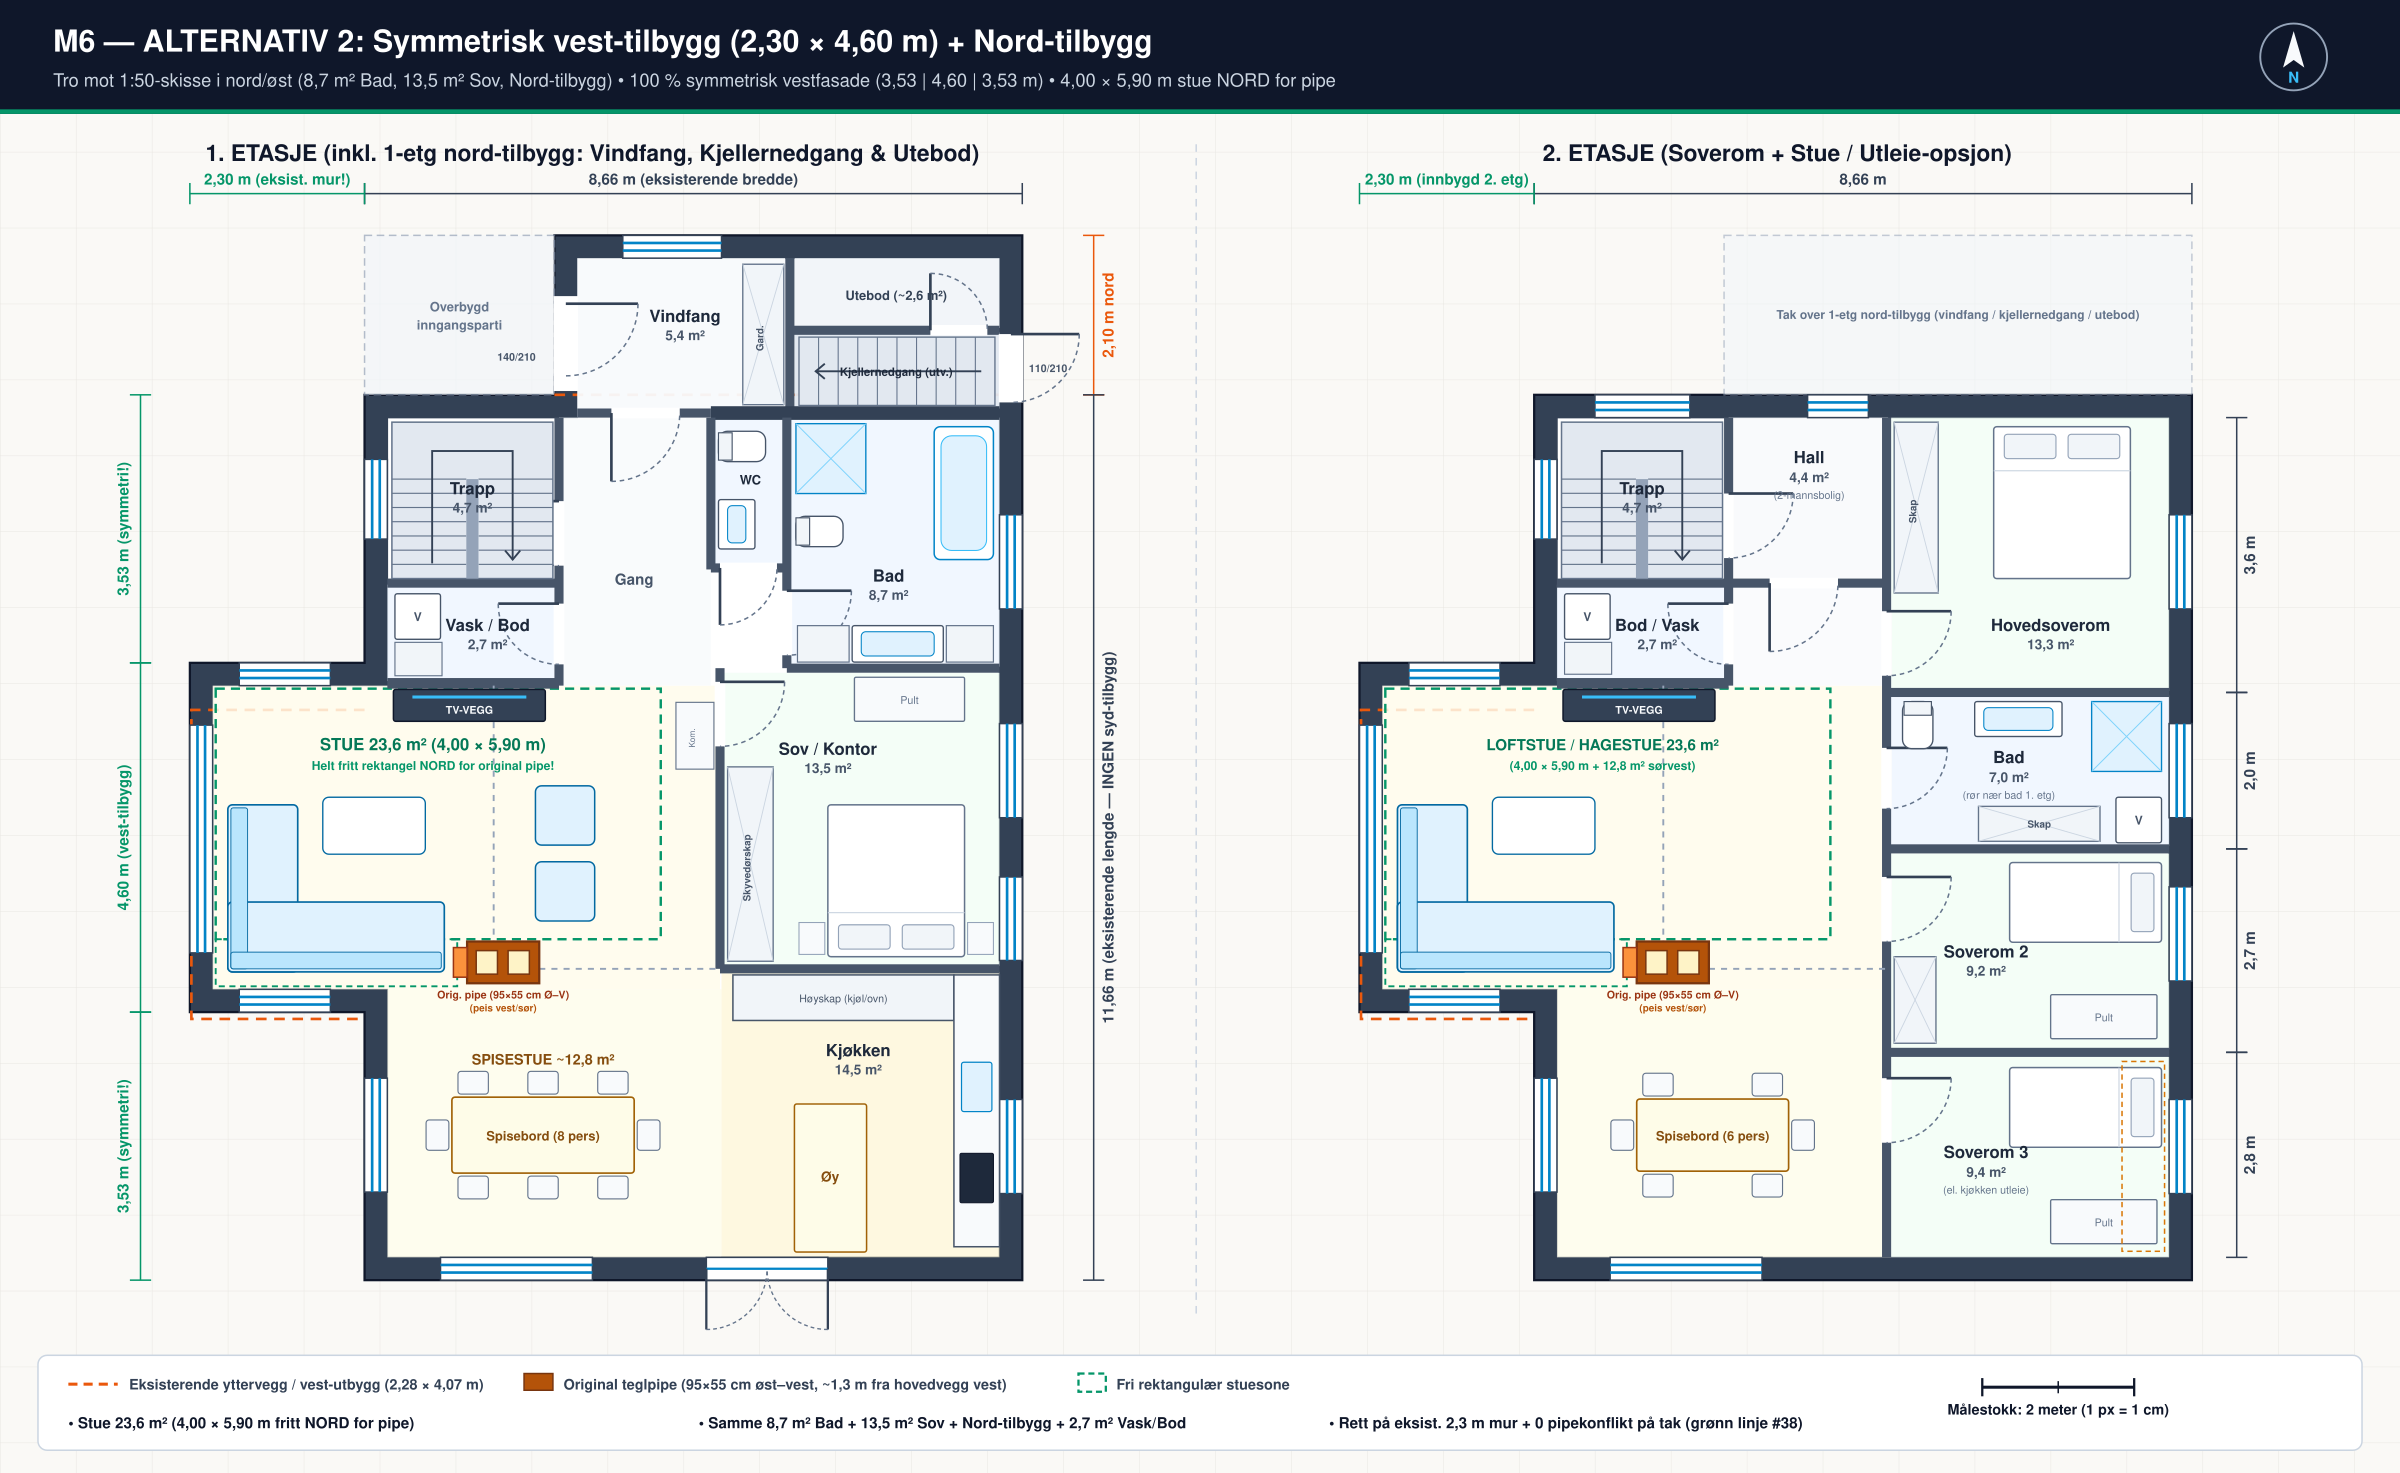
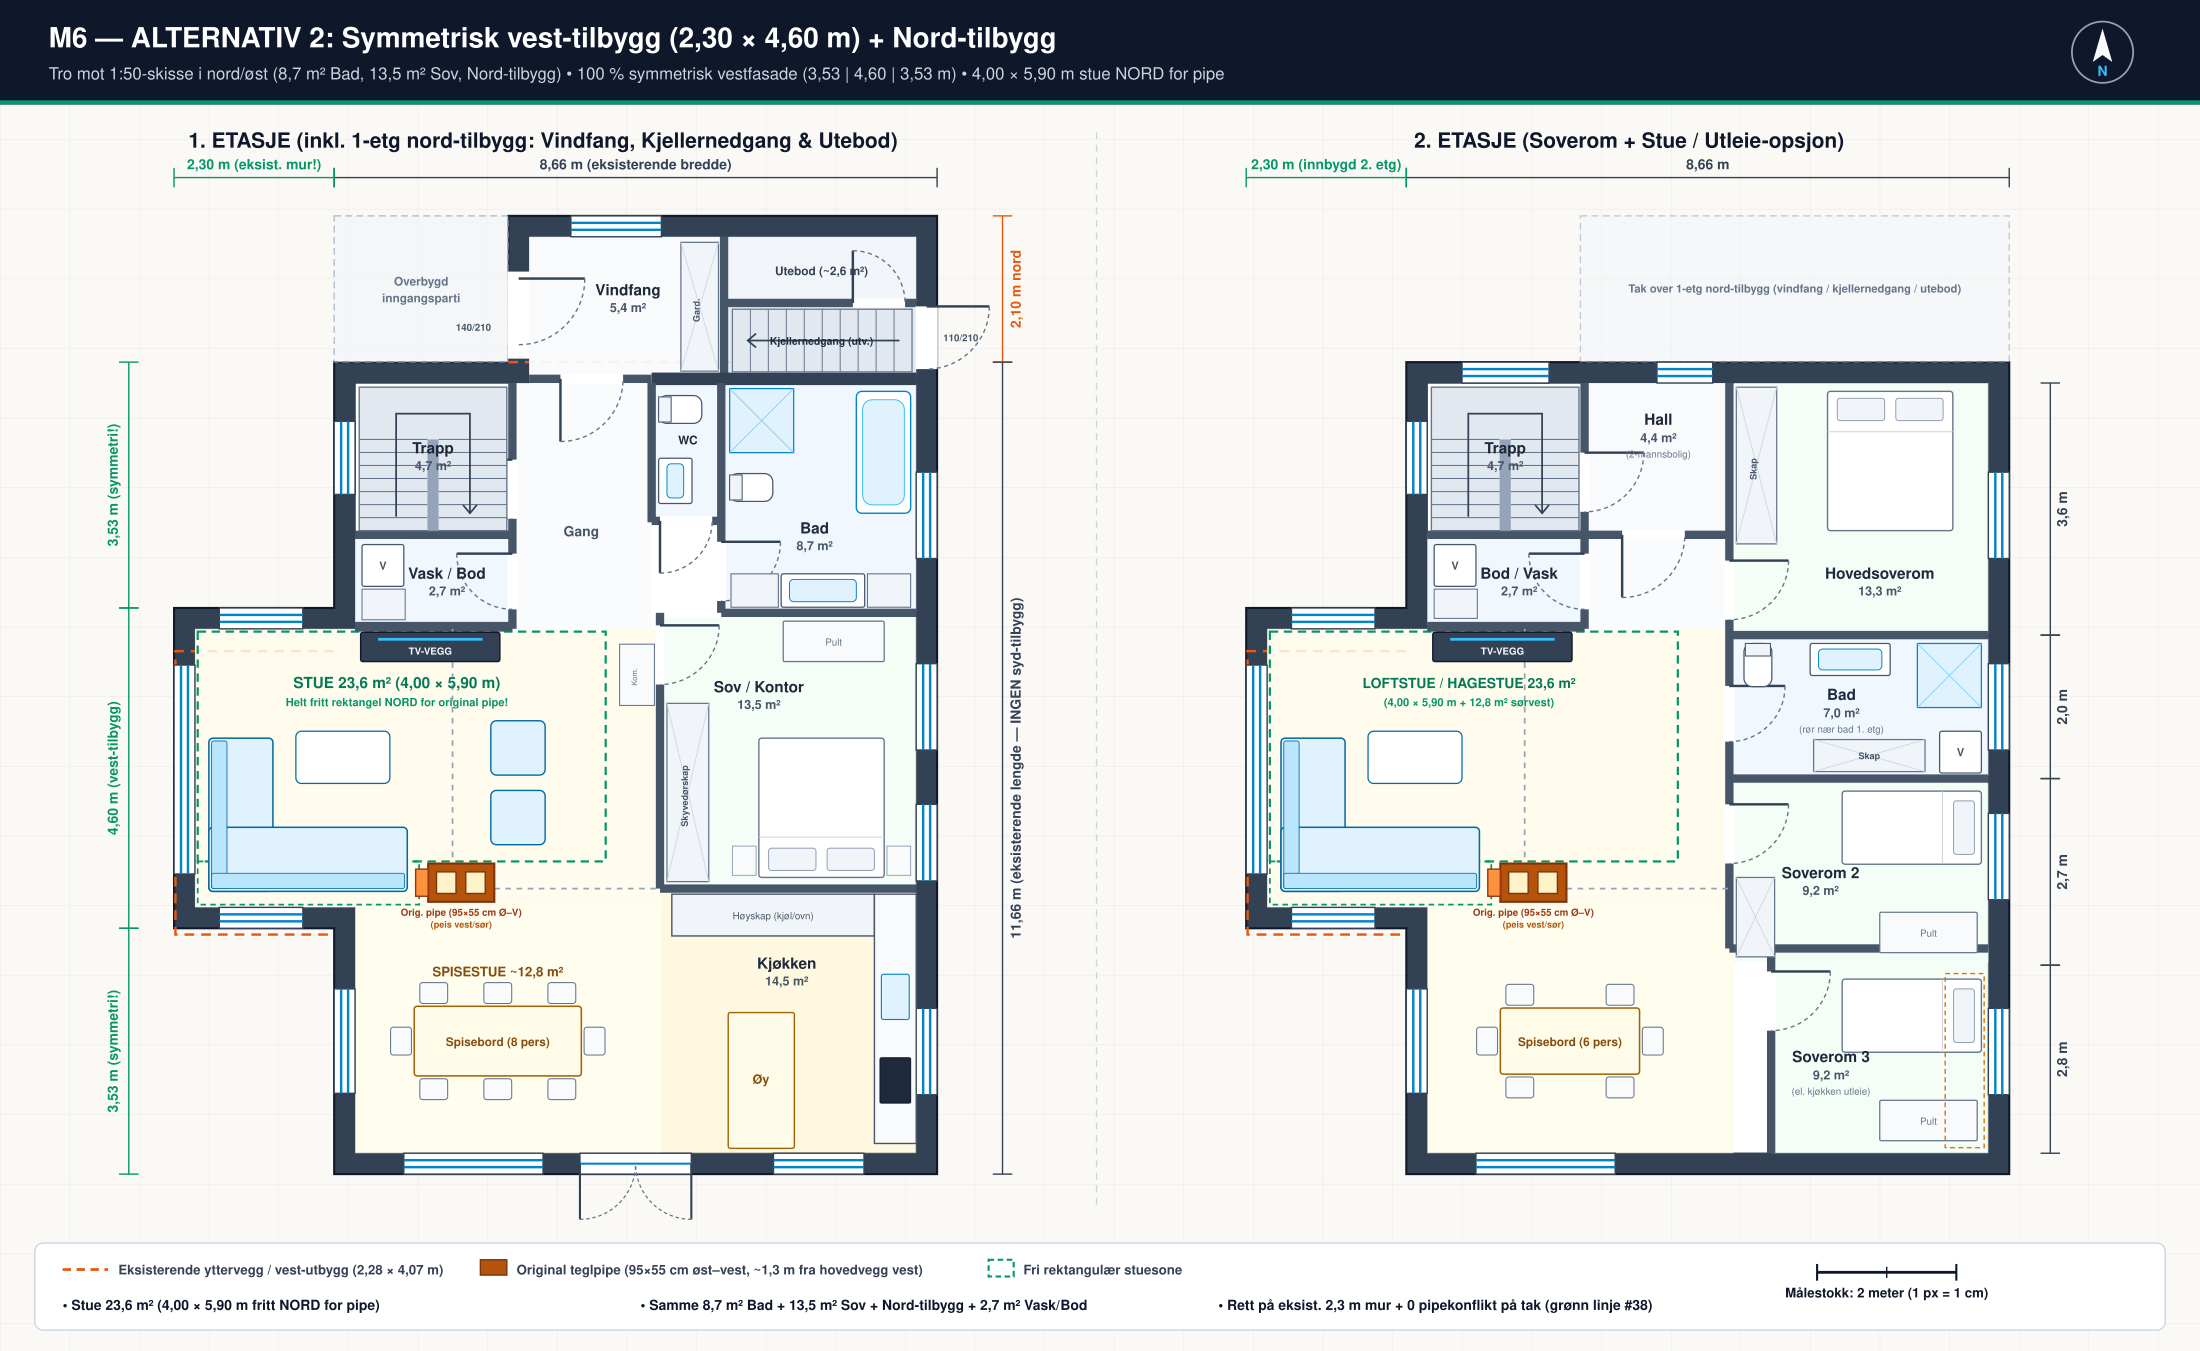
Fix Alt 1 floor plan furniture & veranda door clearances (1. & 2. etg)

diff --git a/scripts/generate_vest_alternativer.py b/scripts/generate_vest_alternativer.py
@@ -154,6 +154,9 @@ class PlanBuilder:
         if swing_down:
             self.path(f"M {px1:.1f} {py + half:.1f} A {half} {half} 0 0 0 {px1 + half:.1f} {py:.1f}", stroke="#64748b", sw=1.8, dash="5,4")
             self.path(f"M {px2:.1f} {py + half:.1f} A {half} {half} 0 0 1 {px2 - half:.1f} {py:.1f}", stroke="#64748b", sw=1.8, dash="5,4")
+        else:
+            self.path(f"M {px1:.1f} {py - half:.1f} A {half} {half} 0 0 1 {px1 + half:.1f} {py:.1f}", stroke="#64748b", sw=1.8, dash="5,4")
+            self.path(f"M {px2:.1f} {py - half:.1f} A {half} {half} 0 0 0 {px2 - half:.1f} {py:.1f}", stroke="#64748b", sw=1.8, dash="5,4")
 
     def dim_h(self, x1, x2, y, label, color="#334155", bold=False):
         self.line(x1, y, x2, y, stroke=color, sw=2)
@@ -448,6 +451,7 @@ def draw_shared_east_floor1(pb: PlanBuilder):
     pb.window_v(851, 433, 557, 30)   # Axis 3: Sov/Pult 1. etg (aligned under Bad 2. etg!)
     pb.window_v(851, 635, 745, 30)   # Axis 2: Sov sør 1. etg (aligned under Sov 2!)
     pb.window_v(851, 928, 1052, 30)  # Axis 1: Kitchen east (aligned under Sov 3!)
+    pb.window_h(631, 761, 1151, 30)  # Kitchen south window (symmetrisk øst for sør-verandadør)
 
     # Fixtures — North extension
     pb.wardrobe(498, -172, 54, 185, "Gard.")
@@ -542,7 +546,7 @@ def draw_shared_east_floor2(pb: PlanBuilder):
     pb.single_bed(626, 886, 200, 105, head="right")
     pb.desk(680, 1060, 140, 58)
     pb.rect(774, 878, 56, 250, fill="none", stroke="#d97706", sw=2, dash="7,5")
-    pb.room_label(595, 1015, "Soverom 3", "9,4 m²", "(el. kjøkken utleie)")
+    pb.room_label(610, 1015, "Soverom 3", "9,2 m²", "(el. kjøkken utleie)")
 
 
 def build_alt1_floor1(pb: PlanBuilder):
@@ -571,31 +575,34 @@ def build_alt1_floor1(pb: PlanBuilder):
     pb.line(170, 434, 170, 720, stroke="#94a3b8", sw=2.5, dash="8,8")
     pb.line(230, 756, 468, 756, stroke="#94a3b8", sw=2.5, dash="8,8")
 
-    # West & south windows + veranda door on south wall of west wing!
-    pb.window_v(-305, 510, 840, 30)
-    pb.double_terrace_door_h(-150, 915, 150, wall_t=30, swing_down=True)  # Verandadør fra vest-tverrfløy!
-    pb.window_h(-220, -85, 425, 30)  # Dobbeltvindu nord på vest-tilbygg (som i nordfasade-skissen)
-    pb.window_h(110, 290, 1151, 30)
-    pb.window_v(15, 95, 195, 30)
+    # West, north & south windows + veranda door on south wall of west wing (matching Fasade Vest/Nord/Sør!)
+    pb.window_v(-305, 475, 640, 30)  # Vestfløy vindu nord (kors-sprosse)
+    pb.window_v(-305, 700, 865, 30)  # Vestfløy vindu sør (kors-sprosse)
+    pb.double_terrace_door_h(-160, 915, 150, wall_t=30, swing_down=True)  # Verandadør fra vest-tverrfløy (x=-235..-85)!
+    pb.window_h(-234, -99, 425, 30)  # Dobbeltvindu nord på vest-tilbygg (som i nordfasade-skissen)
+    pb.window_h(105, 235, 1151, 30)  # Spisestue sør (symmetrisk vest for sentrert verandadør)
+    pb.window_v(15, 90, 195, 30)     # Trapp vest
+    pb.window_v(15, 285, 357, 30)    # Vask vest
+    pb.window_v(15, 992, 1107, 30)   # Spisestue vest
 
-    # Fixtures & furniture
+    # Fixtures & furniture — sofa & TV placed clear of BOTH north window, fireplace (100 cm) and BOTH veranda doors!
     pb.stairs_u(36, 36, 212, 212)
     pb.washer_dryer(42, 270, count=2, vertical=False)
     pb.sink(174, 270, 72, 45)
-    pb.dining_table(240, 1005, 240, 100, seats=8)
-    pb.tv_bench(-185, 444, 195, 42)
-    pb.sofa_l(-270, 650, w_horiz=280, h_vert=225, depth=92, corner="bl")
-    pb.coffee_table(-145, 625, 130, 75)
-    pb.armchair(32, 600, 76, 76)
+    pb.dining_table(205, 985, 200, 95, seats=8)
+    pb.tv_bench(-85, 444, 190, 42)   # På 100% tett nordvegg (klar av nordvindu x=-234..-99!)
+    pb.sofa_l(-270, 515, w_horiz=240, h_vert=225, depth=92, corner="bl")  # Rygg ved y=740 -> 1,60 m fri gang til verandadør!
+    pb.coffee_table(-145, 540, 120, 68)
+    pb.armchair(25, 542, 76, 76)
     pb.chimney_and_fireplace(135, 720, 95, 55, label_side="right")
 
     # Labels
     pb.room_label(142, 138, "Trapp", "4,8 m²")
     pb.room_label(125, 375, "Vask", "3,9 m²")
     pb.text(355, 265, "Gang", size=20, weight="700", fill="#475569")
-    pb.text(-80, 550, "STUE ~24 m²", size=24, weight="800", fill="#0369a1")
-    pb.text(-80, 578, "(4,25 × 4,60 m fritt vest for pipe)", size=17, weight="700", fill="#0284c7")
-    pb.text(240, 912, "SPISESTUE ~11 m²", size=19, weight="700", fill="#854d0e")
+    pb.text(-130, 812, "STUE ~24 m²", size=23, weight="800", fill="#0369a1")
+    pb.text(-130, 838, "(1,60 m fri gang til verandadør)", size=16, weight="700", fill="#0284c7")
+    pb.text(205, 882, "SPISESTUE ~11 m²", size=19, weight="700", fill="#854d0e")
 
     # Dimensions
     pb.dim_h(0, 866, -265, "8,66 m (eksisterende bredde)", bold=True)
@@ -632,36 +639,40 @@ def build_alt1_floor2(pb: PlanBuilder):
     pb.door(310, 256, 90, "h_right_down", wall_t=12)
     pb.door(256, 315, 80, "v_down_left", wall_t=12)
 
-    # South windows + EXISTING centered veranda door (x=353..513) in 2. etg!
-    pb.window_v(-305, 510, 840, 30)
-    pb.window_h(-220, -60, 915, 30)
-    pb.window_h(-220, -85, 425, 30)  # Dobbeltvindu nord på vest-tilbygg (2. etg)
-    pb.window_h(105, 235, 1151, 30)  # Flanking south window west (Opphold 2. etg)
+    # South windows + EXISTING centered veranda door (x=353..513) in 2. etg (matching all 4 facades!)
+    pb.window_v(-305, 475, 640, 30)   # Vestfløy vindu nord
+    pb.window_v(-305, 700, 865, 30)   # Vestfløy vindu sør
+    pb.window_h(-225, -95, 915, 30)   # Vestfløy sørvindu 2. etg
+    pb.window_h(-234, -99, 425, 30)   # Dobbeltvindu nord på vest-tilbygg (2. etg)
+    pb.window_h(105, 235, 1151, 30)   # Flanking south window west (Opphold 2. etg)
     pb.double_terrace_door_h(433, 1151, 160, wall_t=30, swing_down=False)  # Eksist. sentrert verandadør 2. etg sør!
-    pb.window_h(631, 761, 1151, 30)  # Flanking south window east (Sov 3)
-    pb.window_v(15, 95, 195, 30)
+    pb.window_h(631, 761, 1151, 30)   # Flanking south window east (Sov 3)
+    pb.window_v(15, 90, 195, 30)      # Trapp vest
+    pb.window_v(15, 285, 357, 30)     # Bod/Vask vest
+    pb.window_v(15, 992, 1107, 30)    # Spis/opphold vest
 
     pb.stairs_u(36, 36, 212, 212)
     pb.washer_dryer(42, 270, count=2, vertical=False)
     pb.wardrobe(42, 375, 195, 48)
-    pb.tv_bench(-185, 444, 195, 42)
-    pb.sofa_l(-270, 650, w_horiz=280, h_vert=225, depth=92, corner="bl")
-    pb.coffee_table(-145, 625, 130, 75)
-    pb.dining_table(240, 1005, 200, 95, seats=6)
+    pb.tv_bench(-85, 444, 190, 42)    # På 100% tett nordvegg (klar av nordvindu!)
+    pb.sofa_l(-270, 515, w_horiz=240, h_vert=225, depth=92, corner="bl")
+    pb.coffee_table(-145, 540, 120, 68)
+    pb.armchair(25, 542, 76, 76)
+    pb.dining_table(200, 985, 180, 90, seats=6)  # Helt klar av innadslående sør-verandadør!
     pb.chimney_and_fireplace(135, 720, 95, 55, label_side="right")
 
     pb.room_label(142, 138, "Trapp", "4,8 m²")
     pb.room_label(118, 352, "Bod / Vask", "3,6 m²")
     pb.room_label(362, 100, "Hall", "4,5 m²", "(2-mannsbolig)")
-    pb.text(-80, 550, "LOFTSTUE / HAGESTUE", size=22, weight="800", fill="#0369a1")
-    pb.text(-80, 578, "~24 m² + 11 m² spis (innbygd)", size=17, weight="700", fill="#0284c7")
+    pb.text(-130, 812, "LOFTSTUE / HAGESTUE", size=21, weight="800", fill="#0369a1")
+    pb.text(-130, 838, "~24 m² + 11 m² spis (innbygd)", size=16, weight="700", fill="#0284c7")
 
     pb.dim_h(0, 866, -265, "8,66 m", bold=True)
     pb.dim_h(-320, 0, -265, "3,20 m (innbygd 2. etg)", color="#0284c7", bold=True)
     pb.dim_v(925, 30, 392, "3,6 m", text_offset=24)
     pb.dim_v(925, 392, 598, "2,0 m", text_offset=24)
-    pb.dim_v(925, 598, 866, "2,7 m", text_offset=24)
-    pb.dim_v(925, 866, 1136, "2,8 m", text_offset=24)
+    pb.dim_v(925, 598, 842, "2,4 m", text_offset=24)
+    pb.dim_v(925, 842, 1136, "2,9 m", text_offset=24)
 
 
 def build_alt2_floor1(pb: PlanBuilder):
@@ -855,7 +866,7 @@ if __name__ == "__main__":
         [
             "Stue ~24 m² (4,25 × 4,60 m vest for pipe)",
             "Nord-tilbygg (Vindfang 5,4 m², Kjellernedg., Utebod) + 8,7 m² Bad",
-            "Krever ~0,9 m nytt fundament vest + 25° tak / 1-løps pipe (#38)",
+            "Krever ~0,9 m nytt fundament vest + 20° saltak (28 cm klar av 2-løps pipe)",
         ],
     )
     make_sheet(
